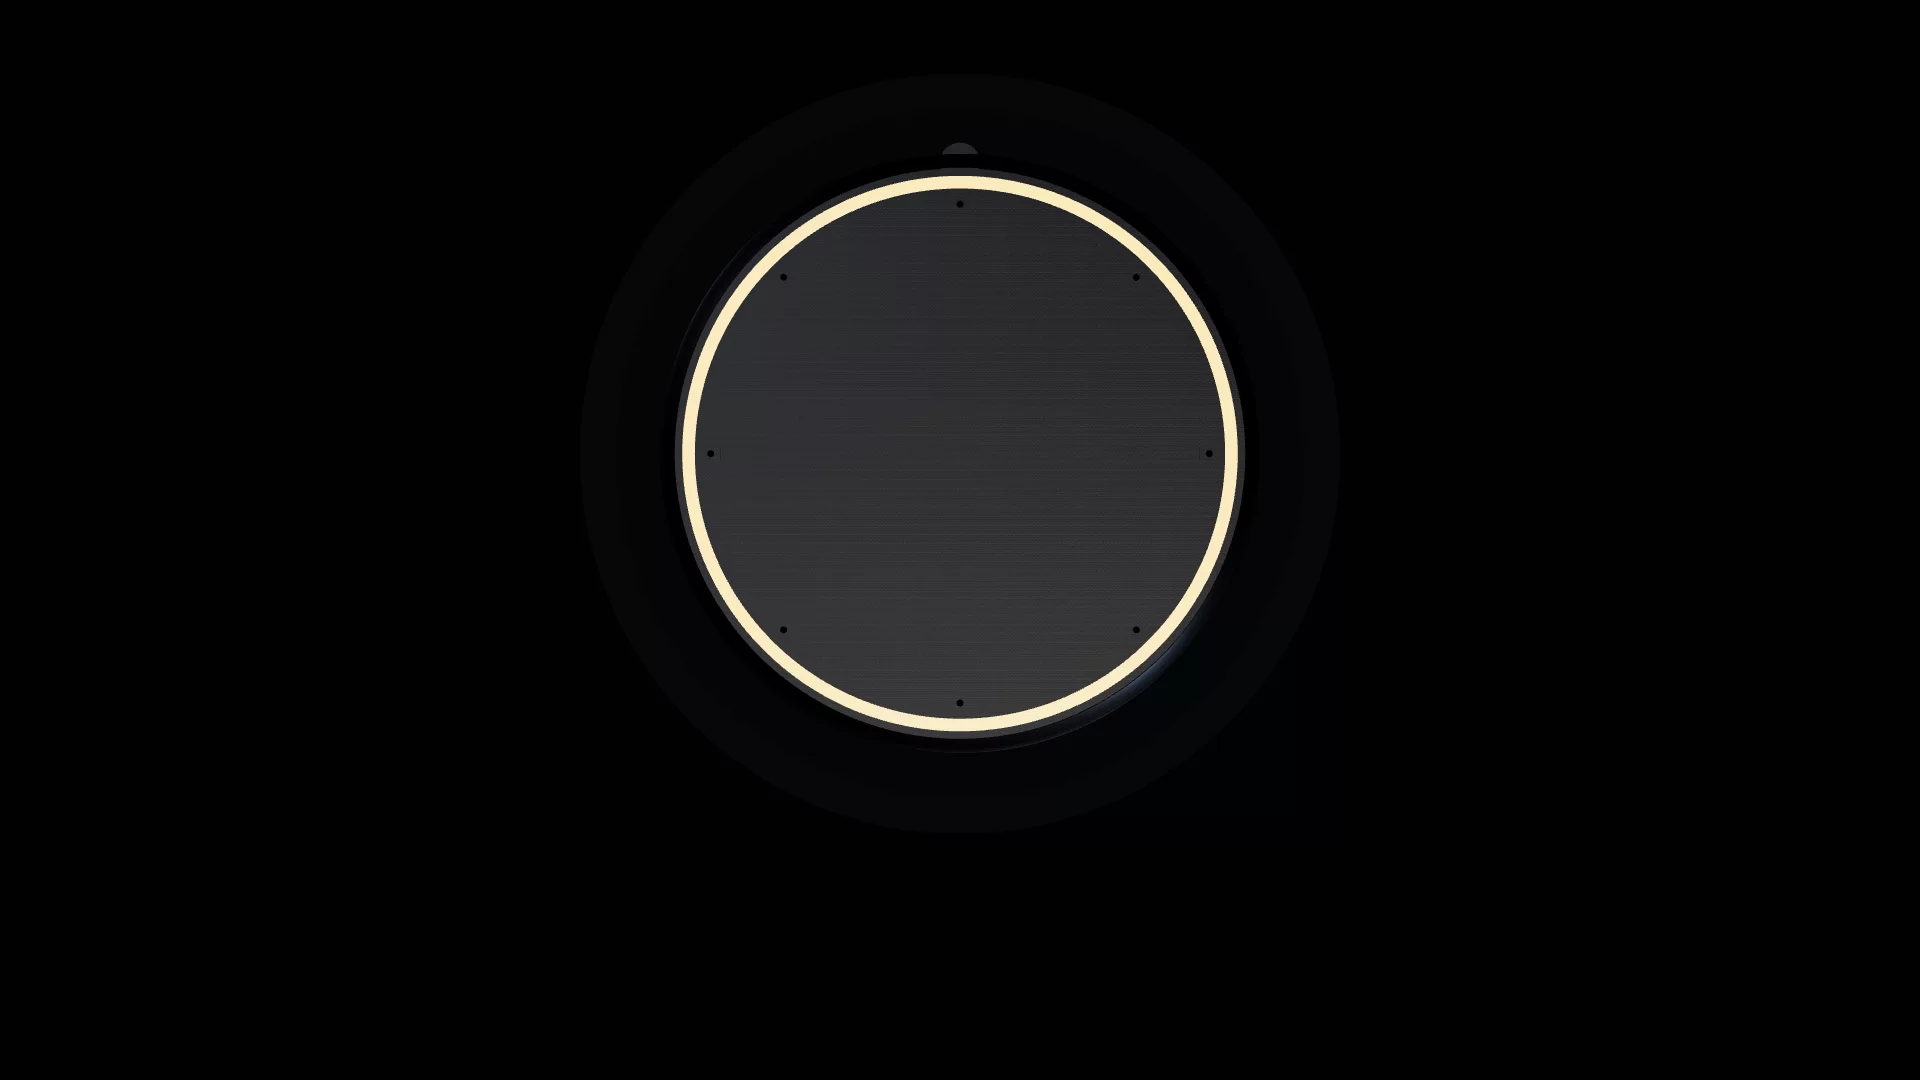
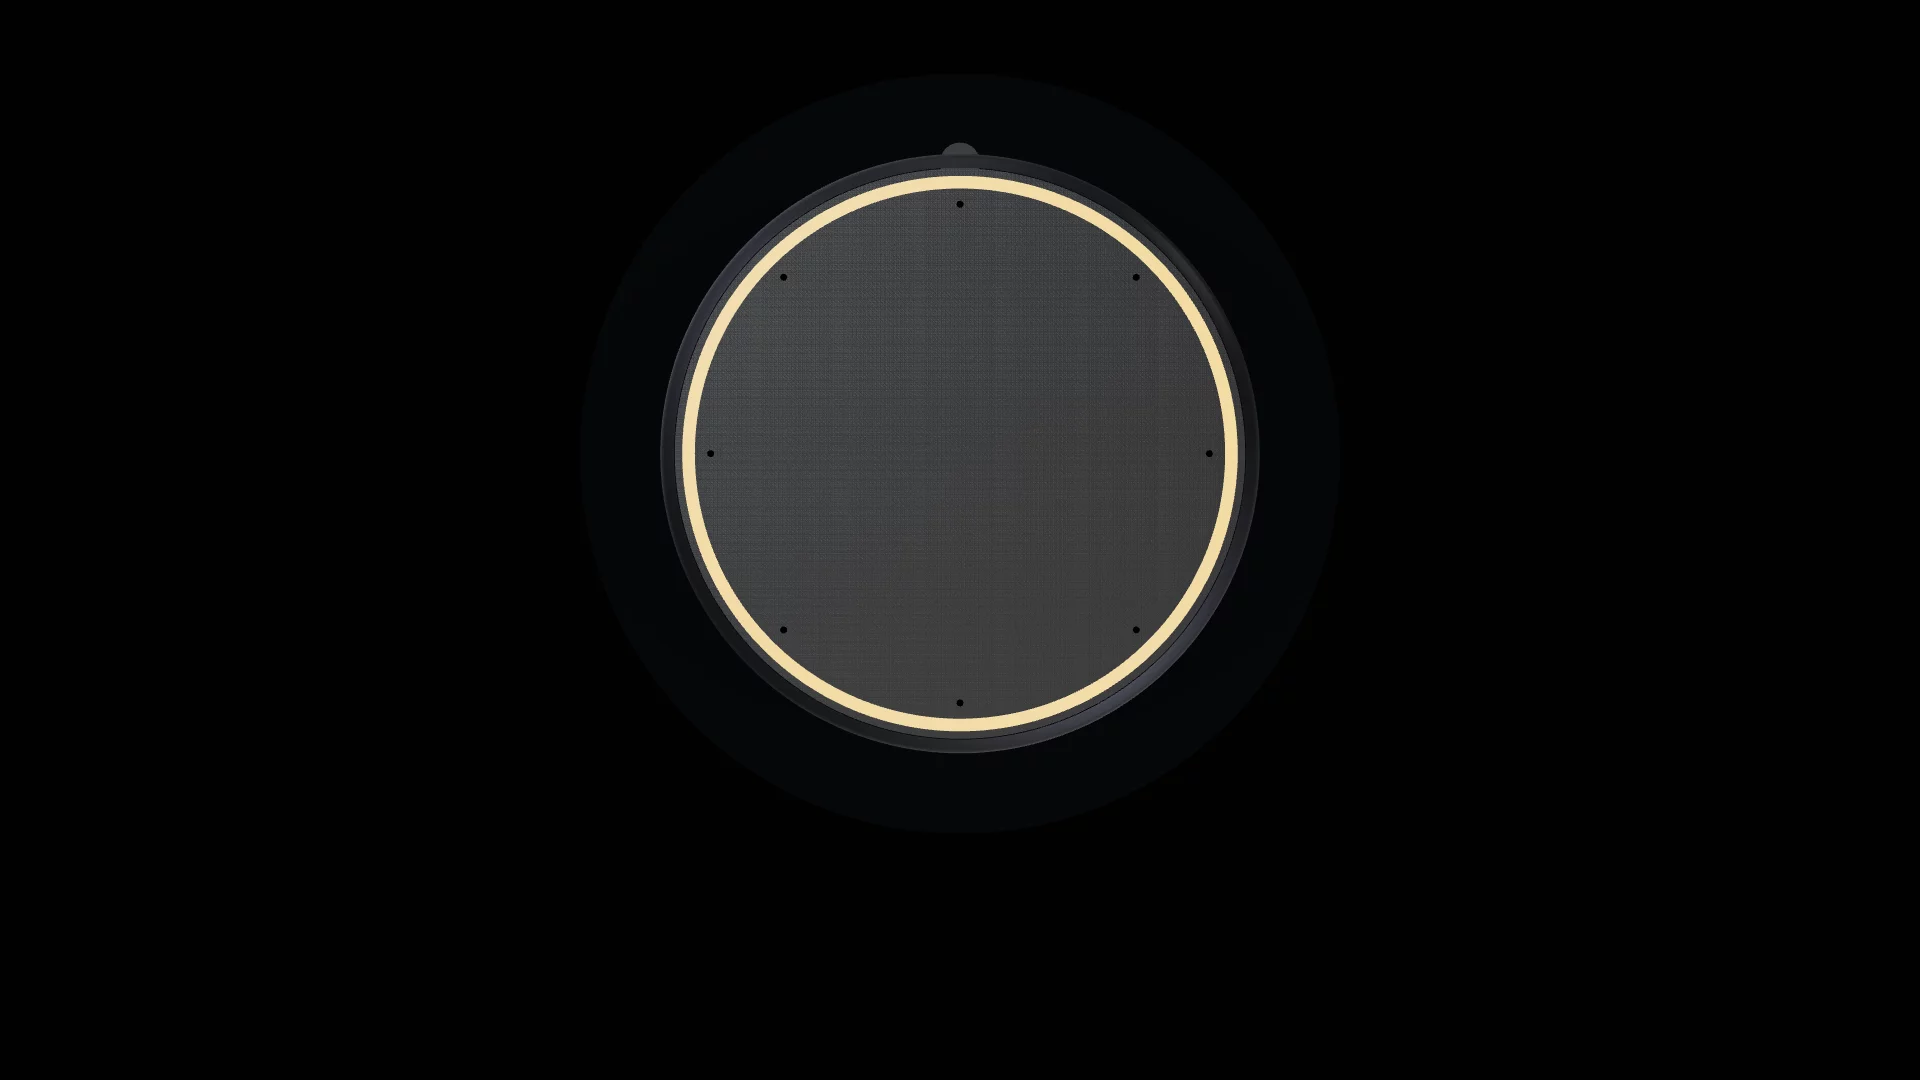
feat(decks): launch-orbit-note plays in a real browser
18 stops, 0 errors/empty/overlaps (chrome smoke). Explode callout anchors
measured from the render, five layers in the alt text, launch layout.css,
scrub-callouts and window-takeover fixes; point-focus range fix for data.

Hat: feature
Claude-Session: https://claude.ai/code/session_0157PJedk5kzQLpTr4yj1DrQ

Changed region(s): [[0.3438, 0.1222, 0.6562, 0.7028]]

diff --git a/concepts/launch/layout.css b/concepts/launch/layout.css
@@ -75,16 +75,17 @@
   display: none;
 }
 
-/* 마지막 공개(lockup 사진): 제품을 1.3배로 키워 화면 주인공으로(사진은 정수리 제품 폭 30%로 렌더됨),
+/* 마지막 공개(lockup 사진): 제품을 1.22배로 키우고 조금 내려(중심 0.45h) 화면 주인공으로(사진은 정수리 제품 폭 30%로 렌더됨),
    media 박스 자체를 키우고 넘친 부분은 frame이 자른다(transform은 move 몫이라 안 씀) */
 .sl-concept-launch .sl-beat--photo .sl-photo__frame {
   overflow: hidden;
 }
 .sl-concept-launch .sl-beat--photo .sl-photo__media {
   position: absolute;
-  inset: -15%;
-  width: 130%;
-  height: 130%;
+  top: -6%;
+  left: -11%;
+  width: 122%;
+  height: 122%;
 }
 /* 캡션: 제품 아래 가운데 한 줄 */
 .sl-concept-launch .sl-photo__caption {
@@ -124,7 +125,7 @@
 /* ── prompt: 실시간 기록. 상자 없이 대화가 찍히고, 같은 자리에서 결과 두 줄로 응축 ── */
 .sl-concept-launch .sl-beat--prompt {
   display: grid;
-  grid-template-columns: calc(1440 * var(--launch-u));
+  grid-template-columns: calc(1560 * var(--launch-u));
   grid-template-rows: auto auto;
   align-content: center;
   justify-content: center;
@@ -197,19 +198,66 @@
   background: var(--sl-accent);
 }
 
-/* ── 세로 화면: 제품 위 55%, 카피는 아래 ───────────────────────────── */
+/* ── 세로 화면: 제품 프레임은 16:9 그대로 위쪽에(제품 축이 가운데 오게 1.4배), 카피는 아래 ─────── */
 @media (max-aspect-ratio: 1/1) {
   .sl-concept-launch {
-    --launch-col-w: calc(640 * var(--launch-u));
-    --launch-copy: calc(56 * var(--launch-u));
+    --launch-copy: calc(52 * var(--launch-u));
+    --launch-hero: calc(240 * var(--launch-u));
+  }
+  .sl-concept-launch .sl-video__caption {
+    left: calc(48 * var(--launch-u));
+    width: calc(100% - 96 * var(--launch-u));
+  }
+  .sl-concept-launch .sl-frame-sequence {
+    position: absolute;
+    top: 8%;
+    left: -36.8%;
+    width: 140%;
+    height: auto;
+    aspect-ratio: 16 / 9;
   }
   .sl-concept-launch .sl-beat--video:has(.sl-frame-sequence) .sl-video__caption {
-    bottom: 12%;
+    bottom: 14%;
+  }
+  .sl-concept-launch .sl-beat--video:has(.sl-video__media-host) .sl-video__caption {
+    width: calc(100% - 96 * var(--launch-u));
+    font-size: var(--launch-copy);
   }
   .sl-concept-launch .sl-text__line {
     white-space: normal;
   }
+  .sl-concept-launch .sl-text--xl {
+    font-size: calc(108 * var(--launch-u));
+  }
+  .sl-concept-launch .sl-text--l {
+    font-size: calc(68 * var(--launch-u));
+  }
+  .sl-concept-launch .sl-text--m {
+    font-size: calc(60 * var(--launch-u));
+  }
+  .sl-concept-launch .sl-text__block {
+    max-width: calc(100% - 96 * var(--launch-u));
+  }
+  .sl-concept-launch .sl-number__label {
+    max-width: calc(640 * var(--launch-u));
+    font-size: calc(34 * var(--launch-u));
+  }
   .sl-concept-launch .sl-beat--prompt {
     grid-template-columns: calc(660 * var(--launch-u));
+  }
+  .sl-concept-launch .sl-prompt__field {
+    font-size: calc(40 * var(--launch-u));
+  }
+  .sl-concept-launch .sl-prompt__result {
+    font-size: calc(48 * var(--launch-u));
+  }
+  .sl-concept-launch .sl-beat--photo .sl-photo__media {
+    top: 0;
+    left: -50%;
+    width: 200%;
+    height: 72%;
+  }
+  .sl-concept-launch .sl-photo__caption {
+    bottom: 16%;
   }
 }

diff --git a/moves/media/scrub-callouts.js b/moves/media/scrub-callouts.js
@@ -35,8 +35,9 @@ export default {
     return { duration: params.duration, stops: [] };
   },
   build(tl, ctx, params) {
+    // anchor는 그려진 프레임(media 캔버스) 기준: 세로 화면에선 캔버스가 frame보다 작게 위쪽에 앉는다
     const d = params.duration,
-      rect = ctx.beat.anchor('frame').rect;
+      rect = (ctx.beat.part('media').length ? ctx.beat.anchor('media') : ctx.beat.anchor('frame')).rect;
     const x = rect.x + rect.w * params.anchor.x,
       y = rect.y + rect.h * params.anchor.y;
     const left = params.side === 'left';
@@ -49,8 +50,16 @@ export default {
     const previous = [...(ctx.stage.overlay?.querySelectorAll?.(`[data-callout-of="${ctx.beat.id}"]`) ?? [])];
     const index = ctx.step?.index ?? 0;
     const from = params.from >= 0 ? params.from : (ctx.beat.data.steps?.[index - 1]?.params?.to ?? 0);
+    // 세로 화면: 옆에 라벨 둘 폭이 없어 지시선은 아래로 내려 프레임 밑 왼쪽 정렬 라벨에 닿는다
+    const below = ctx.viewport.portrait;
+    const labelTop = rect.y + rect.h + px(ctx, 40);
     const svg = svgLayer(ctx),
-      stroke = line(svg, end, y, x, y, { stroke: accent, 'stroke-width': Math.max(1.5, px(ctx, 2)) });
+      stroke = below
+        ? line(svg, x, labelTop - px(ctx, 16), x, y, {
+            stroke: accent,
+            'stroke-width': Math.max(1.5, px(ctx, 2)),
+          })
+        : line(svg, end, y, x, y, { stroke: accent, 'stroke-width': Math.max(1.5, px(ctx, 2)) });
     const dot = document.createElement('i'),
       label = document.createElement('div'),
       note = document.createElement('div');
@@ -59,16 +68,23 @@ export default {
     note.className = 'sl-scrub-callouts__note';
     label.textContent = params.label;
     note.textContent = params.note;
-    const side = left
-      ? { right: `${ctx.viewport.w - (end - gap)}px`, textAlign: 'right' }
-      : { left: `${end + gap}px`, textAlign: 'left' };
+    const side = below
+      ? { left: `${px(ctx, 48)}px`, textAlign: 'left' }
+      : left
+        ? { right: `${ctx.viewport.w - (end - gap)}px`, textAlign: 'right' }
+        : { left: `${end + gap}px`, textAlign: 'left' };
     Object.assign(dot.style, { position: 'absolute', left: `${x}px`, top: `${y}px`, display: 'block' });
-    Object.assign(label.style, {
+    Object.assign(
+      label.style,
+      below
+        ? { position: 'absolute', top: `${labelTop}px`, ...side }
+        : { position: 'absolute', bottom: `${ctx.viewport.h - y + px(ctx, 4)}px`, ...side },
+    );
+    Object.assign(note.style, {
       position: 'absolute',
-      bottom: `${ctx.viewport.h - y + px(ctx, 4)}px`,
+      top: `${below ? labelTop + px(ctx, 52) : y + px(ctx, 10)}px`,
       ...side,
     });
-    Object.assign(note.style, { position: 'absolute', top: `${y + px(ctx, 10)}px`, ...side });
     const group = [svg, dot, label, note];
     if (params.dimOthers) {
       const scrim = document.createElement('div');

diff --git a/moves/media/window-takeover.js b/moves/media/window-takeover.js
@@ -1,5 +1,20 @@
-/** Expands an already-open media window through its local tile. */
+/** Grows an already-open media window until it covers its map tile (the screen at the stop). */
 import { seg } from '../_shared/timeline.js';
+
+/** Scale and offset that make the frame cover its beat tile (layout box, transforms ignored). */
+function coverOf(frame, viewport) {
+  const w = frame?.offsetWidth || 0,
+    h = frame?.offsetHeight || 0;
+  if (!w || !h) return { x: 0, y: 0, scale: 1 };
+  const cx = frame.offsetLeft + w / 2,
+    cy = frame.offsetTop + h / 2;
+  return {
+    x: viewport.w / 2 - cx,
+    y: viewport.h / 2 - cy,
+    scale: Math.max(viewport.w / w, viewport.h / h) * 1.01,
+  };
+}
+
 export default {
   id: 'window-takeover',
   family: 'media',
@@ -9,33 +24,26 @@ export default {
   reduce: 'fade',
   params: {
     duration: { type: 'number', default: 1.2, min: 0.5, max: 2.4, doc: '전체 길이(u)' },
-    scrim: { type: 'number', default: 0.55, min: 0, max: 0.8, doc: 'scrim(안무 설명의 같은 이름)' },
   },
   timing(params) {
     return { duration: params.duration, stops: [] };
   },
   build(tl, ctx, params) {
-    const frame = ctx.beat.part('frame');
+    const [frame] = ctx.beat.part('frame');
     const media = ctx.beat.part('media');
-    const caption = ctx.beat.part('caption');
-    tl.to(
+    if (!frame) return;
+    const cover = coverOf(frame, ctx.viewport);
+    tl.fromTo(
       frame,
-      {
-        clipPath: 'inset(0% 0% 0% 0% round 0px)',
-        borderRadius: 0,
-        ...seg(params.duration, 0, 0.7),
-        ease: ctx.ease('inout'),
-      },
+      { x: 0, y: 0, scale: 1, transformOrigin: '50% 50%' },
+      { ...cover, transformOrigin: '50% 50%', ...seg(params.duration, 0, 0.8), ease: ctx.ease('inout'), immediateRender: false },
       0,
     );
-    tl.to(media, { scale: 1.02, ...seg(params.duration, 0, 0.7), ease: ctx.ease('inout') }, 0);
-    tl.to(caption, { y: 120, ...seg(params.duration, 0.3, 0.8), ease: ctx.ease('out') }, 0);
-    if (caption.length) {
-      const s = document.createElement('div');
-      s.className = 'sl-media-scrim';
-      ctx.overlay.append(s);
-      ctx.initial(s, { autoAlpha: 0, backgroundColor: `rgba(0,0,0,${params.scrim})` });
-      tl.to(s, { autoAlpha: 1, ...seg(params.duration, 0.3, 0.8) }, 0);
-    }
+    tl.fromTo(
+      media,
+      { scale: 1 },
+      { scale: 1.04, ...seg(params.duration, 0.2, 1), ease: ctx.ease('out'), immediateRender: false },
+      0,
+    );
   },
 };

diff --git a/moves/data/point-focus.test.js b/moves/data/point-focus.test.js
@@ -31,3 +31,36 @@ it('passes contract and resolves index -1 from highlight', () => {
   expect(Number(r.ctx.gsap.getProperty(h.beats.get('c').part('mark')[1], 'scaleX'))).toBeCloseTo(1.8);
   h.destroy();
 });
+it('finds the highlighted point when the series is named and the line path is the first mark', () => {
+  const named = {
+    ...scenario,
+    beats: [
+      {
+        id: 'c',
+        type: 'chart',
+        data: {
+          series: [{ name: 'boxes', values: [1, 2, 3] }],
+          highlight: { series: 'boxes', index: 2 },
+          parts: { plot: true, mark: true, label: true },
+        },
+      },
+    ],
+    rects: {
+      'c.mark#0': { x: 0, y: 0, w: 1, h: 1 },
+      'c.mark#1': { x: 0, y: 0, w: 1, h: 1 },
+      'c.mark#2': { x: 1, y: 0, w: 1, h: 1 },
+      'c.mark#3': { x: 2, y: 0, w: 1, h: 1 },
+    },
+  };
+  const h = createHarness(named);
+  const marks = h.beats.get('c').part('mark');
+  marks.forEach((n, i) => {
+    n.dataset.index = i === 0 ? 'all' : String(i - 1);
+    n.dataset.series = '0';
+  });
+  const r = h.runMove(move, named.run);
+  h.seek(r.timing.duration);
+  expect(Number(r.ctx.gsap.getProperty(marks[3], 'scaleX'))).toBeCloseTo(1.8);
+  expect(Number(r.ctx.gsap.getProperty(marks[2], 'scaleX'))).toBeCloseTo(1);
+  h.destroy();
+});

diff --git a/moves/media/window-takeover.test.js b/moves/media/window-takeover.test.js
@@ -11,11 +11,23 @@ const scenario = {
   },
   run: { role: 'step', beat: 'm', params: { duration: 1.2 } },
 };
-it('meets the move contract and removes the frame radius', () => {
+const layout = (node, box) => {
+  for (const [key, value] of Object.entries(box)) Object.defineProperty(node, key, { value, configurable: true });
+};
+it('meets the move contract', () => {
   expect(checkMove(move, scenario, createHarness)).toEqual([]);
+});
+it('grows the window from its tile slot until it covers the tile, and rewinds', () => {
   const h = createHarness({ beats: scenario.beats, rects: scenario.rects });
+  const [frame] = h.beats.get('m').part('frame');
+  layout(frame, { offsetLeft: 262, offsetTop: 238, offsetWidth: 1396, offsetHeight: 785 });
   const r = h.runMove(move, scenario.run);
+  const get = (prop) => Number(r.ctx.gsap.getProperty(frame, prop));
   h.seek(r.timing.duration);
-  expect(r.ctx.gsap.getProperty(r.ctx.beat.part('frame')[0], 'borderRadius')).toBe(0);
+  expect(get('scale')).toBeGreaterThan(1920 / 1396);
+  expect(get('x')).toBeCloseTo(960 - (262 + 698));
+  expect(get('y')).toBeCloseTo(540 - (238 + 392.5));
+  h.seek(0);
+  expect(get('scale')).toBe(1);
   h.destroy();
 });

diff --git a/moves/data/point-focus.js b/moves/data/point-focus.js
@@ -18,11 +18,14 @@ export default {
   build(tl, ctx, params) {
     const d = params.duration,
       index = params.index < 0 ? (ctx.beat.data.highlight?.index ?? 0) : params.index,
-      series = ctx.beat.data.highlight?.series ?? 0;
+      named = ctx.beat.data.highlight?.series ?? 0,
+      // highlight.series is a series name or an index (C4 chart)
+      found = (ctx.beat.data.series ?? []).findIndex((x) => x?.name === named),
+      series = typeof named === 'number' ? named : Math.max(0, found);
     const marks = part(ctx, 'mark'),
       target =
         marks.find((n) => Number(n.dataset.index) === index && Number(n.dataset.series) === Number(series)) ??
-        marks[index];
+        marks.filter((n) => n.dataset.index !== 'all')[index];
     const other = marks.filter((n) => n !== target);
     tl.to(other, { autoAlpha: params.dim, duration: d * 0.5, ease: ctx.ease('out') }, 0);
     if (target) {
